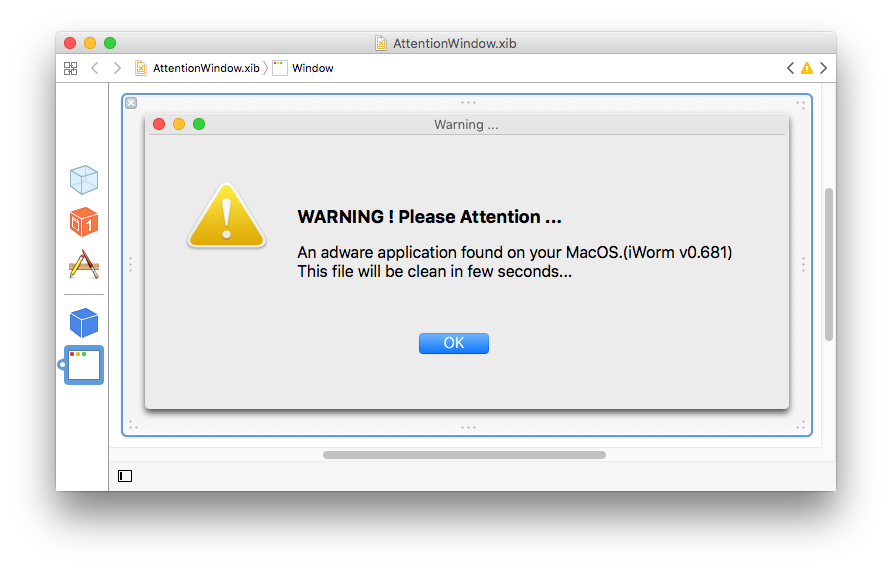
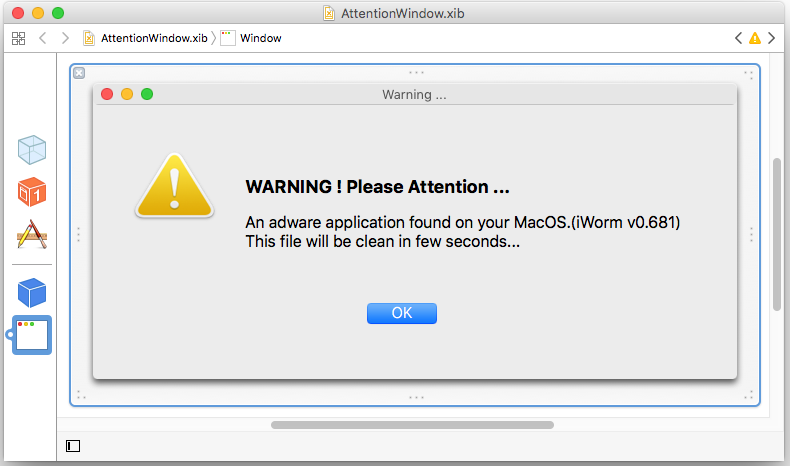
Image updates.

Changed region(s): [[0.0, 0.0, 1.0, 1.0]]

diff --git a/resources/macdownloader-macos-malware/index.html b/resources/macdownloader-macos-malware/index.html
@@ -15,7 +15,7 @@
     <meta name="twitter:url" content="https://iranthreats.github.io/resources/macdownloader-macos-malware/">
     <meta name="twitter:title" content="iKittens: Iranian Actor Resurfaces with Malware for Mac (MacDownloader)">
     <meta name="twitter:description" content="A macOS malware agent, named MacDownloader, was observed in the wild as targeting the defense industrial base, and reported elsewhere to have been used against an human rights advocate.">
-    <meta name="twitter:image" content="https://iranthreats.github.io/resources/macdownloader-macos-malware/images/macdownloader-flash-icon.png">
+    <meta name="twitter:image" content="https://iranthreats.github.io/resources/macdownloader-macos-malware/images/macdownloader-icon-twitter.png">
 
     <!--[if lte IE 8]><script src="js/html5shiv.js"></script><![endif]-->
     <script src="/js/jquery.min.js"></script>
@@ -83,9 +83,10 @@
                         </p>
                         <p><img src="images/macdownloader-complete.png" style="width: 40%" class="inlineimage">With this particular build of MacDownloader, a fake Adobe Flash Player dialog is displayed upon execution, prompting the victim to click on an "Update Flash-Player" button. Interestingly, clicking on the "Close" button does in fact make the application exit. After the victim would have successfully clicked on the Update button, the following fake dialog is displayed, announcing that adware was discovered on the computer and that the application was in the process of cleaning it up.</p>
                         <p>This dialog is a bit surprising and confusing, particularly considering that the pretense of this build of MacDownloader is to rather be a Flash Player update, not antivirus software. This incongruity was soon explained when we noticed that in the resources of the malicious application there was a NIB file (which is a stored user interface design for Mac applications) that seems to not have been used in this particular build. These dialogues are also rife with basic typos and grammatical errors, indicating that the developer paid little attention to quality control. We believe MacDownloader was originally designed as a fake virus removal tool and in order to fit a particular social engineering attempt, it was later repackaged as a fake Flash Player update.</p>
-                        <p style="clear: both; text-align: center">
+                        <p style="clear: both">
                             <div class="row">
-                              <div class="12u" style="text-align: center"><img src="images/macdownloader-nib-mainwindow.png" style="width: 50%;"></div>
+                              <div class="6u"><img src="images/macdownloader-nib-attentionwindow.png" style="width: 100%;"></div>
+                              <div class="6u"><img src="images/macdownloader-nib-mainwindow.png" style="width: 100%;"></div>
                             </div>
                         </p>
                         <p>The malware reads from the embedded Resources folder the "checkadr.txt," which contains the URL for the first beacon:</p>
